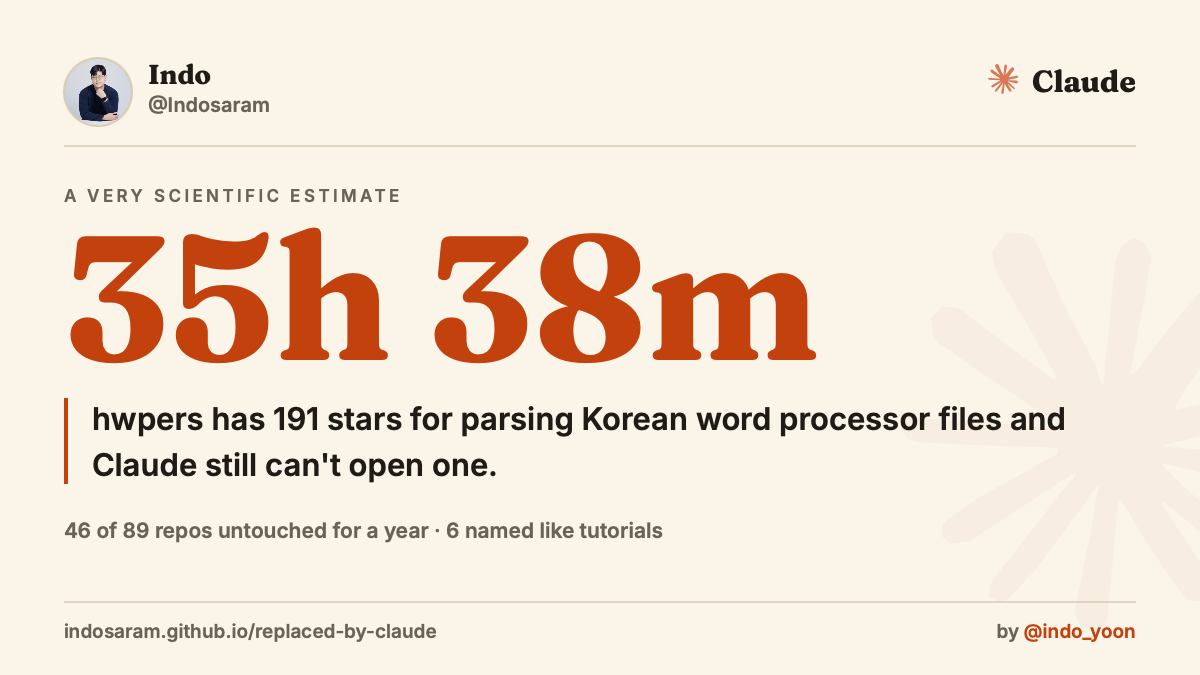
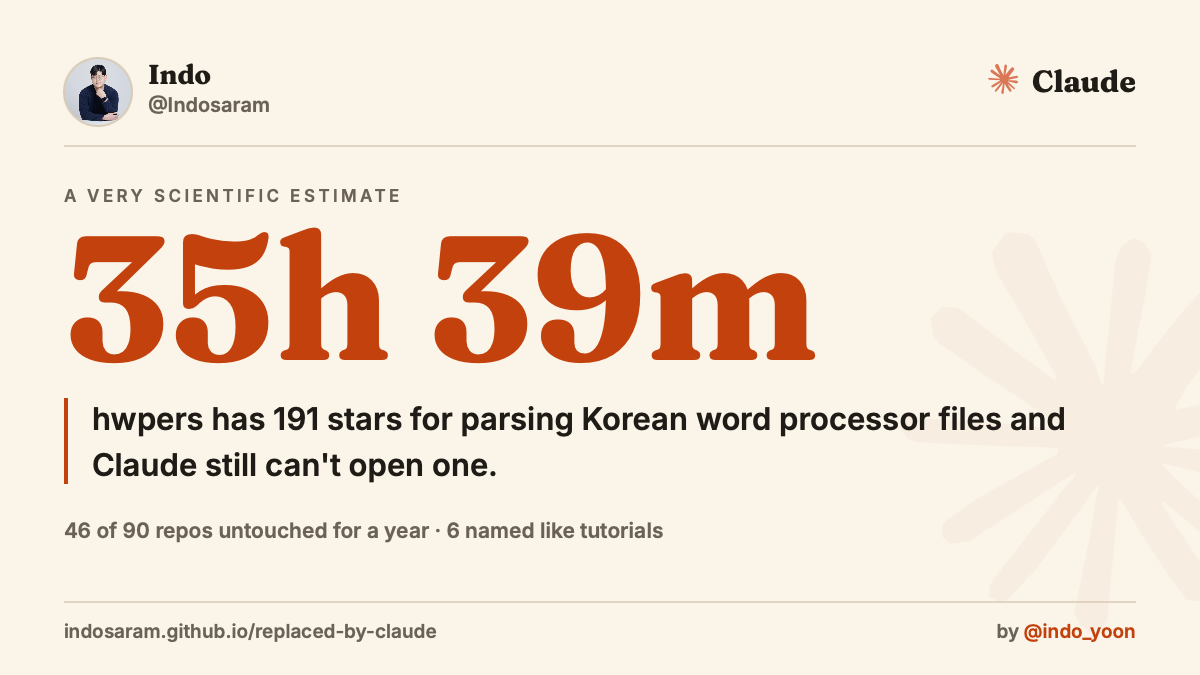
chore(launch): snapshot owner card from the live render (35h 39m, 90 repos)

diff --git a/launch-kit/posts.md b/launch-kit/posts.md
@@ -7,7 +7,7 @@ Nothing here is posted automatically. Every item below passed the AI-tell review
 Attach: `cards/Indosaram.png`
 
 ```
-I made a site that reads your GitHub and guesses how long until Claude replaces you. I got 35h 38m and it went after one of my repos by name. Try yours
+I made a site that reads your GitHub and guesses how long until Claude replaces you. I got 35h 39m and it went after one of my repos by name. Try yours
 https://indosaram.github.io/replaced-by-claude/
 ```
 
